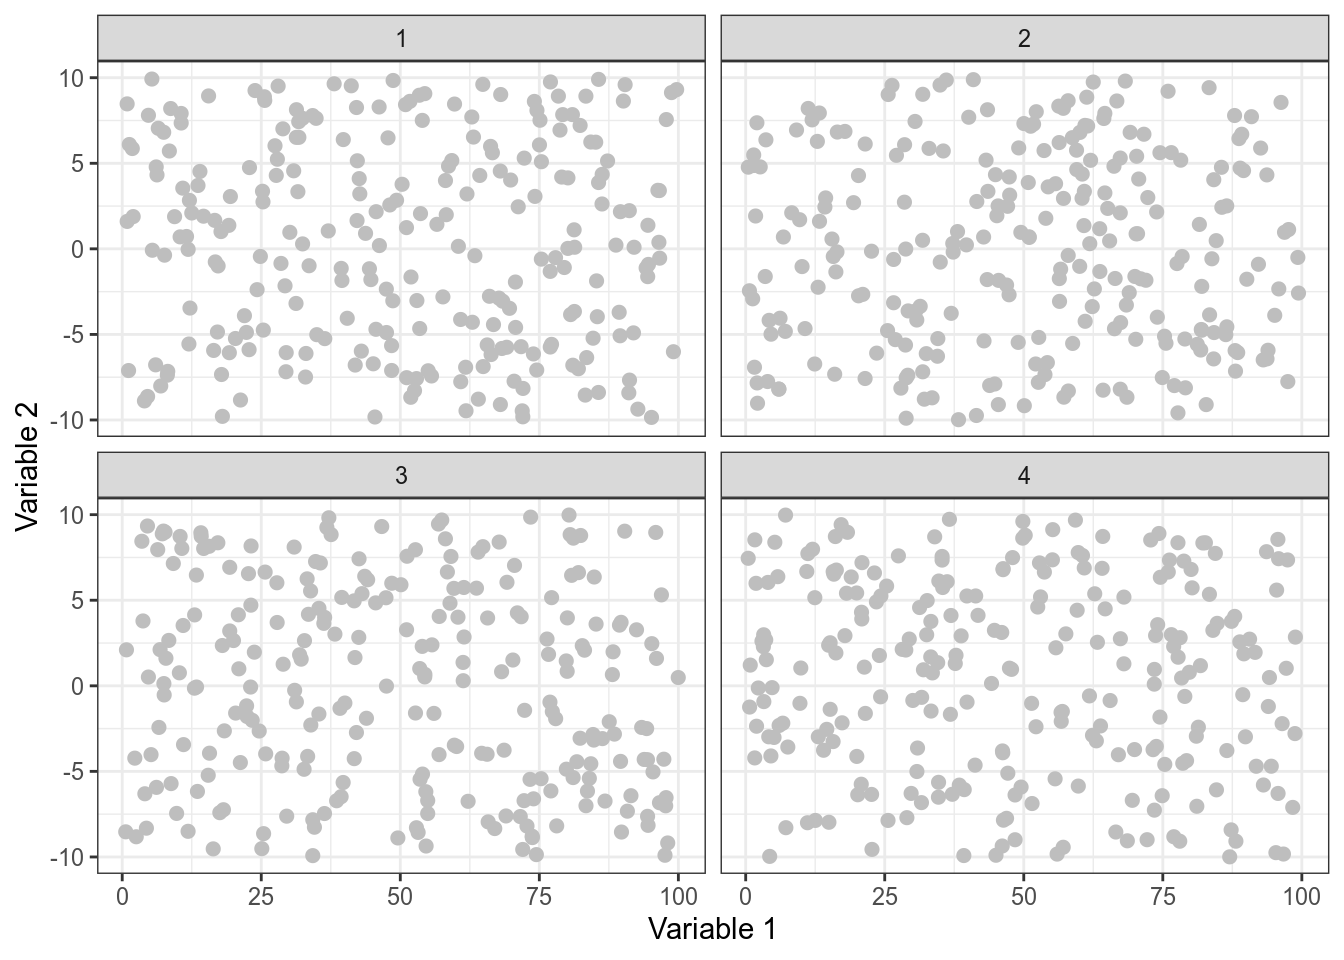
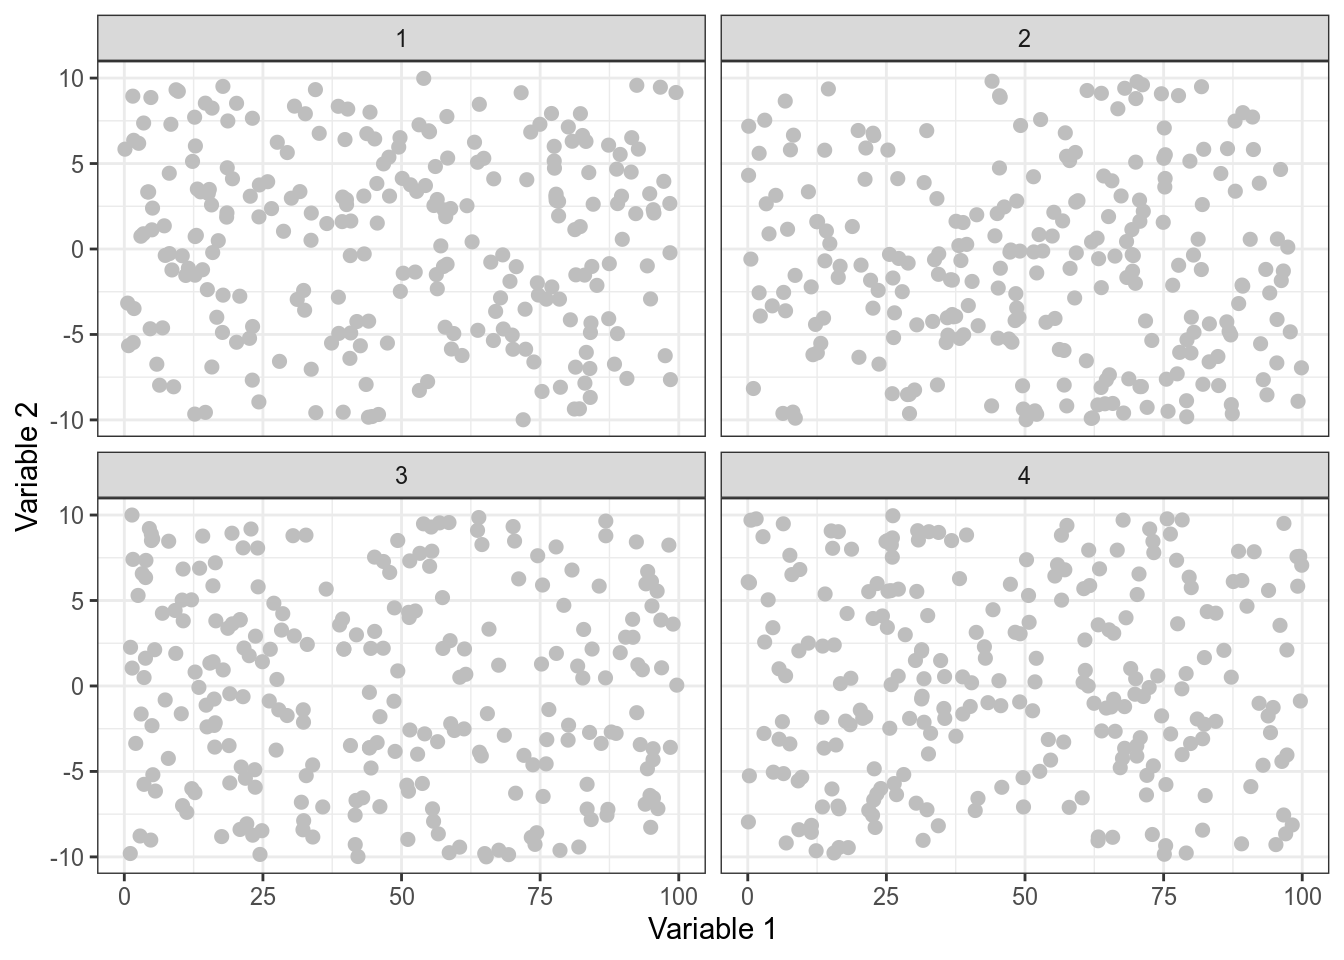
saihasihish

diff --git a/post/speeding-up-rarefaction-curves-for-microbial-community-ecology/index.html b/post/speeding-up-rarefaction-curves-for-microbial-community-ecology/index.html
@@ -491,11 +491,11 @@ microbenchmark(rarecurve(dune), quickRareCurve(dune), times = 10)</code></pre>
 <p><img src="/post/2018-12-15-speeding-up-rarefaction-curves-for-microbial-community-ecology_files/figure-html/unnamed-chunk-3-1.png" width="672" /></p>
 <pre><code>## Unit: milliseconds
 ##                  expr      min       lq     mean   median       uq
-##       rarecurve(dune) 64.09247 68.40923 69.84151 70.62115 70.96949
-##  quickRareCurve(dune) 48.94792 81.51434 79.40750 82.03977 83.66148
+##       rarecurve(dune) 66.17685 68.48628 69.23183 69.31825 70.03621
+##  quickRareCurve(dune) 47.80692 82.52621 80.46054 84.06839 85.01588
 ##       max neval
-##  72.89052    10
-##  87.43058    10</code></pre>
+##  71.67020    10
+##  86.31908    10</code></pre>
 <p>As you can see, for this small dataset, the original function is actually quicker. This is because it takes some time to distribute tasks among the cores. However, I’ve found for a typical OTU table (&gt; 50 samples, ~ 15,000 sequences per sample), <code>quickRareCurve</code> can be around 3 times faster.</p>
 <p>Feel free to use it as you wish, but I’d be very grateful for any credit if you do use it.</p>
 

diff --git a/post/a-custom-r-function-for-transposing-data-tables/index.html b/post/a-custom-r-function-for-transposing-data-tables/index.html
@@ -522,7 +522,7 @@ transDT</code></pre>
 ##     transposedDt[, rowID] &lt;- newRowNames[newRowNames != transCol]
 ##     return(transposedDt)
 ## }
-## &lt;bytecode: 0x55a327d52c50&gt;
+## &lt;bytecode: 0x563c9a12bc50&gt;
 ## &lt;environment: namespace:ecolFudge&gt;</code></pre>
 <p>As you can see, the function takes three arguments. The first, <code>dt</code>, is simply the data.table you wish to transpose. The second, <code>transCol</code>, is the column that you wish to become your new column names. In our example, this would be the <code>sampleName</code> column. The third argument, <code>rowID</code>, is simply the name you would like to call the column with your new row identifiers (e.g. the column names in your original data). In this example, our new row identifiers are the names of the species, and so it makes sense to call this column <code>species</code> or something similar.</p>
 <pre class="r"><code>transBci3 &lt;- transDT(bci, transCol=&quot;sampleName&quot;, rowID = &quot;species&quot;)

diff --git a/post/ggplot2-from-default-to-delightful/index.html b/post/ggplot2-from-default-to-delightful/index.html
@@ -428,12 +428,12 @@ myData &lt;- data.frame(var1 =  runif(1000, 0, 100), var2 = runif(1000, -10, 10)
 
 head(myData)</code></pre>
 <pre><code>##       var1       var2 catVar
-## 1 64.83679  9.6095642      1
-## 2 75.94520  9.2088602      2
-## 3 88.13435  0.6563641      3
-## 4 12.42986  5.1498522      4
-## 5 96.57701  3.4052591      1
-## 6 28.84965 -9.8956735      2</code></pre>
+## 1 85.24026 -2.1282043      1
+## 2 37.48931 -3.9379807      2
+## 3 49.32137  0.8810468      3
+## 4 35.36416 -1.3170033      4
+## 5 88.40480 -6.7371313      1
+## 6 97.84301 -4.8468379      2</code></pre>
 <p>Hopefully that code should be fairly easy to understand, we’ve simulated two continuous variables (with a random distribution) and created a categorical variable.</p>
 <p>Now let’s create the most basic scatter plot possible with this data.</p>
 <pre class="r"><code>plot1 &lt;- ggplot(myData, aes(x = var1, y = var2)) + geom_point()
